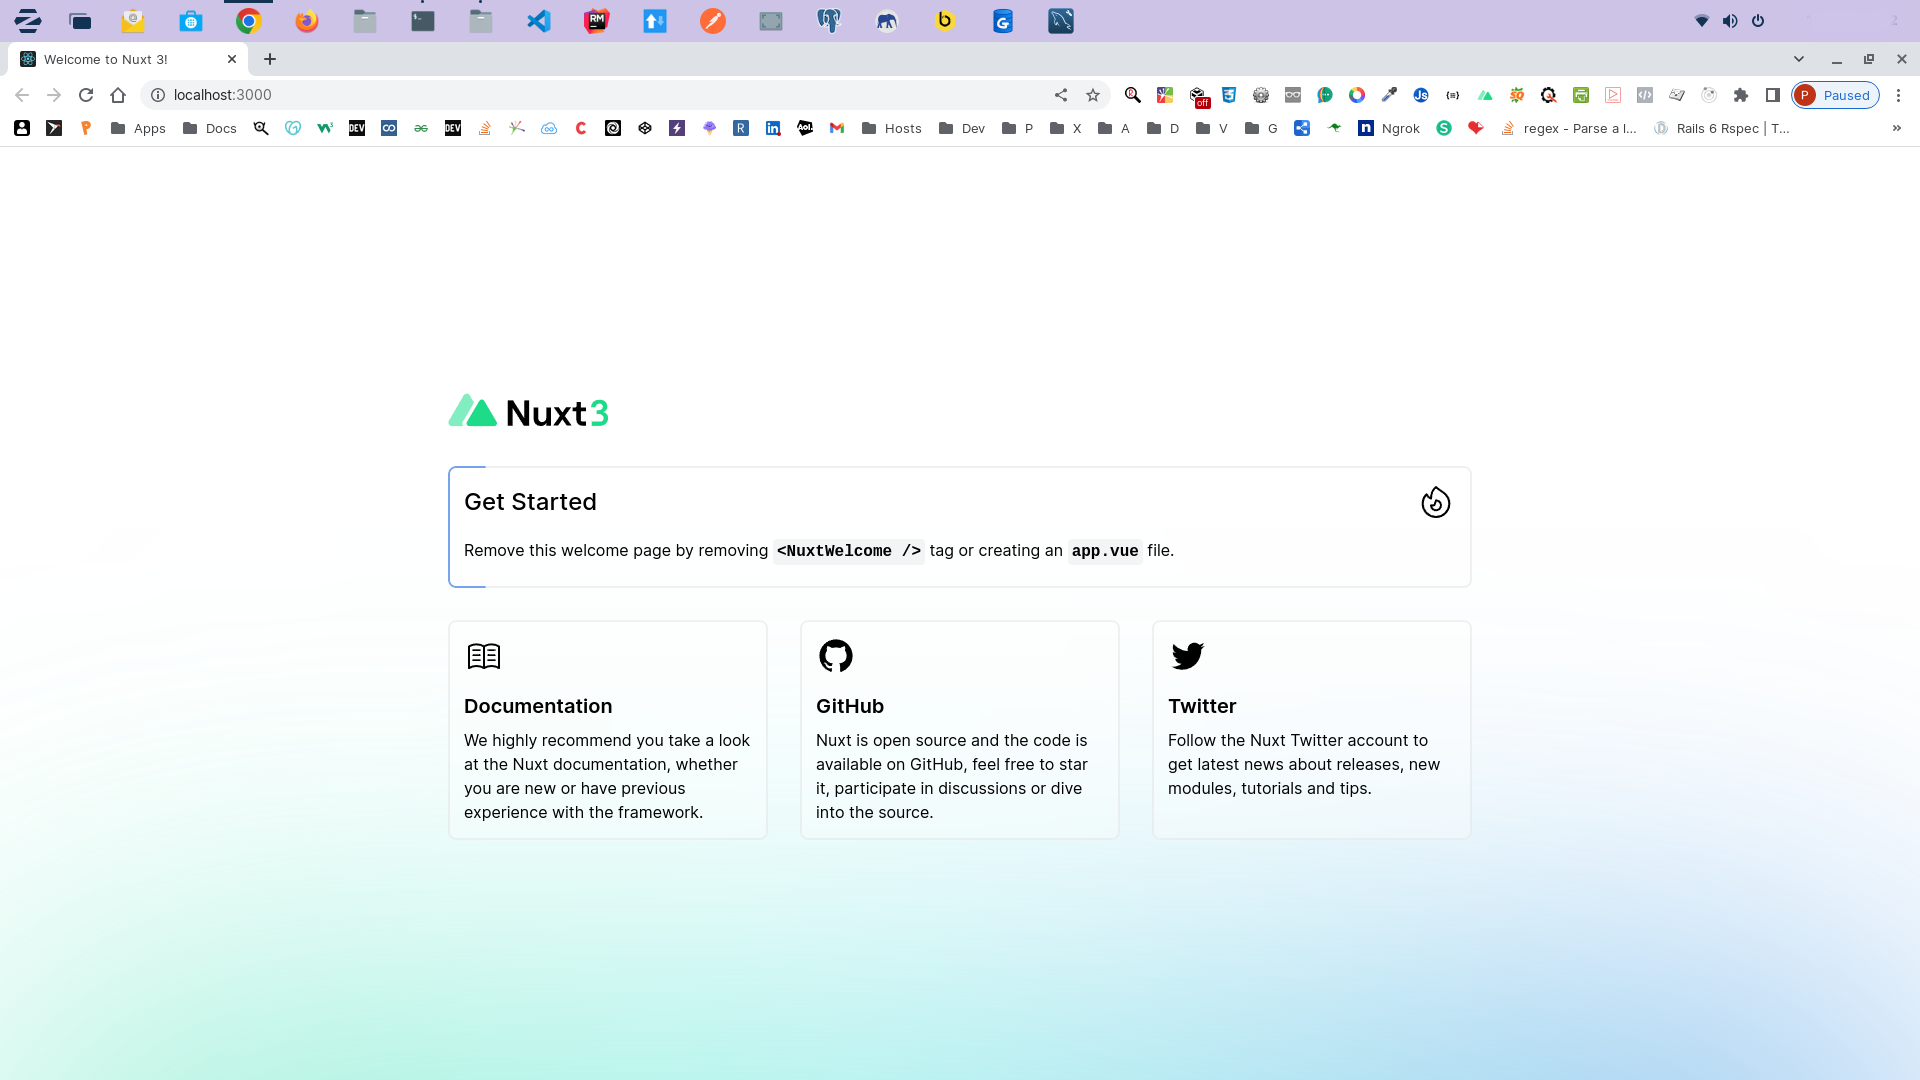
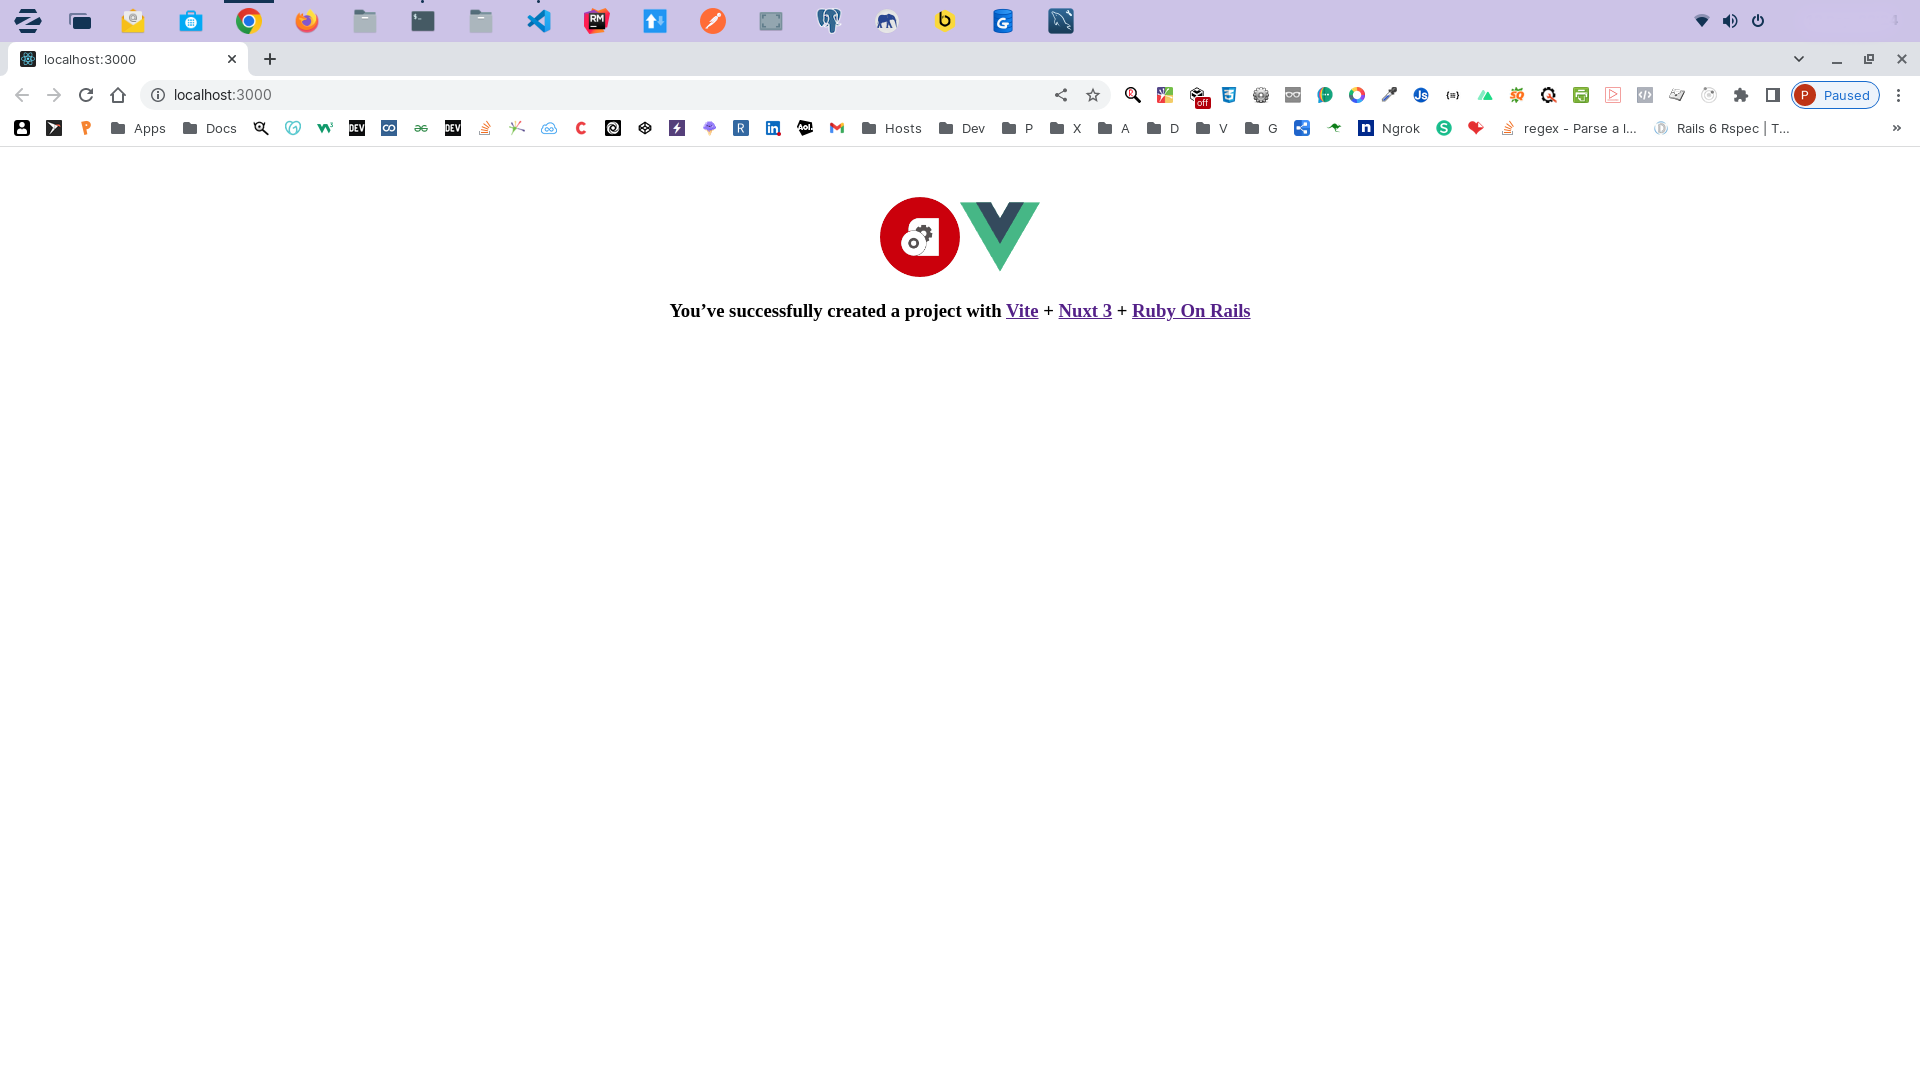
Nuxt assets

diff --git a/nuxt-front/components/Registration.vue b/nuxt-front/components/Registration.vue
@@ -1,0 +1,48 @@
+<template>
+    <div class="registration">
+        <form @submit.prevent="register">
+            <h3>Register</h3>
+            <div class="form-group">
+                <label>Email address</label>
+                <input type="email" placeholder="Email address..." v-model="email"
+                    class="form-control form-control-lg" />
+            </div>
+
+            <div class="form-group">
+                <label>Password</label>
+                <input type="password" placeholder="Password..." v-model="password"
+                    class="form-control form-control-lg" />
+            </div>
+
+            <div class="form-group">
+                <label>Password Confirmation</label>
+                <input type="password_confirmation" placeholder="Password Confirmation..."
+                    v-model="password_confirmation" class="form-control form-control-lg" />
+            </div>
+
+            <button type="submit" class="btn btn-dark btn-lg btn-block mt-3">Register</button>
+
+            <p class="forgot-password text-right">
+                Already registered
+                <router-link :to="{name: 'login'}">Sign In?</router-link>
+            </p>
+        </form>
+    </div>
+</template>
+ 
+<script>
+export default {
+    data() {
+        return {
+            email: "",
+            password: "",
+            password_confirmation: ""
+        };
+    },
+    methods: {
+        register() {
+            console.log("register");
+        }
+    }
+}
+</script>

diff --git a/nuxt-front/components/Login.vue b/nuxt-front/components/Login.vue
@@ -1,0 +1,42 @@
+<template>
+    <div class="vue-tempalte">
+        <form @submit.prevent="login">
+            <h3>Sign In</h3>
+            <div class="form-group">
+                <label>Email address</label>
+                <input type="email" placeholder="Email address..." v-model="email"
+                    class="form-control form-control-lg" />
+            </div>
+
+            <div class="form-group">
+                <label>Password</label>
+                <input type="password" placeholder="Password..." v-model="password"
+                    class="form-control form-control-lg" />
+            </div>
+
+            <button type="submit" class="btn btn-dark btn-lg btn-block mt-3">Sign In</button>
+
+            <p class="forgot-password text-right">
+                Not registered?
+                <router-link :to="{name: 'registration'}">Register?</router-link>
+            </p>
+        </form>
+    </div>
+</template>
+ 
+<script>
+export default {
+    data() {
+        return {
+            email: "",
+            password: ""
+        };
+    },
+    methods: {
+        login() {
+            console.log("login");
+        }
+    }
+}
+
+</script>

diff --git a/nuxt-front/app.vue b/nuxt-front/app.vue
@@ -1,5 +1,13 @@
 <template>
-  <div>
-    <NuxtWelcome />
+  <div style="text-align: center; margin: 50px;">
+    <img alt=" Rail logo" class="logo" src="@/assets/logorails.png" width="80" height="80" />
+    <img alt="Vue logo" class="logo" src="@/assets/logo.svg" width="80" height="80" />
+
+    <h3>
+      You’ve successfully created a project with
+      <a href="https://vitejs.dev/" target="_blank" rel="noopener">Vite</a> +
+      <a href="https://v3.nuxtjs.org/" target="_blank" rel="noopener">Nuxt 3</a> +
+      <a href="https://rubyonrails.org/" target="_blank" rel="noopener">Ruby On Rails</a>
+    </h3>
   </div>
 </template>

diff --git a/config/initializers/cors.rb b/config/initializers/cors.rb
@@ -1,12 +1,12 @@
  Rails.application.config.middleware.insert_before 0, Rack::Cors do
   allow do
-    origins 'http://localhost:3000'
+    origins 'http://localhost:5000'
     resource '*', :headers => :any, :methods => [:get, :post, :put, :patch, :delete, :options, :head
 ], :credentials => true
   end 
 
    allow do
-    origins 'https://react-rails-auth.herokuapp.com:3000'
+    origins 'https://vue-rails-auth.herokuapp.com:5000'
     resource '*', :headers => :any, :methods => [:get, :post, :put, :patch, :delete, :options, :head
 ], :credentials => true
   end

diff --git a/config/initializers/session_store.rb b/config/initializers/session_store.rb
@@ -1,5 +1,5 @@
  if Rails.env === 'production'
- Rails.application.config.session_store :cookie_store, key: '_authentication_app', domain: 'react-rails-auth.herokuapp.com:3000'  
+ Rails.application.config.session_store :cookie_store, key: '_authentication_app', domain: 'vue-rails-auth.herokuapp.com:3000'  
  else
  Rails.application.config.session_store :cookie_store, key: '_authentication_app'
  end                                         

diff --git a/README.md b/README.md
@@ -1,6 +1,6 @@
 # vue-rails-auth
 
-Rails 7 & Vue JS (Vite) app with Bcrypt sessions, registrations, login and auth functionailty, RSpec & Factory Bot tests
+Rails 7 & Vue JS (Vite) app with Bcrypt sessions, registrations, login and auth functionailty, RSpec & Factory Bot tests, alt Vue and Nuxt version front ends
 
 * Ruby version
 3.1.2
@@ -8,8 +8,11 @@ Rails 7 & Vue JS (Vite) app with Bcrypt sessions, registrations, login and auth 
 * Vue version
 3.2.38
 
+* Nuxt version
+3.0.0 RC 9
+
 * System dependencies
-Ruby, Vue, Vite, BCrypt, RSpec, PostgreSQL
+Ruby, Vue, Nuxt, Vite, BCrypt, RSpec, PostgreSQL
 
 * Database creation
 Postgres 
